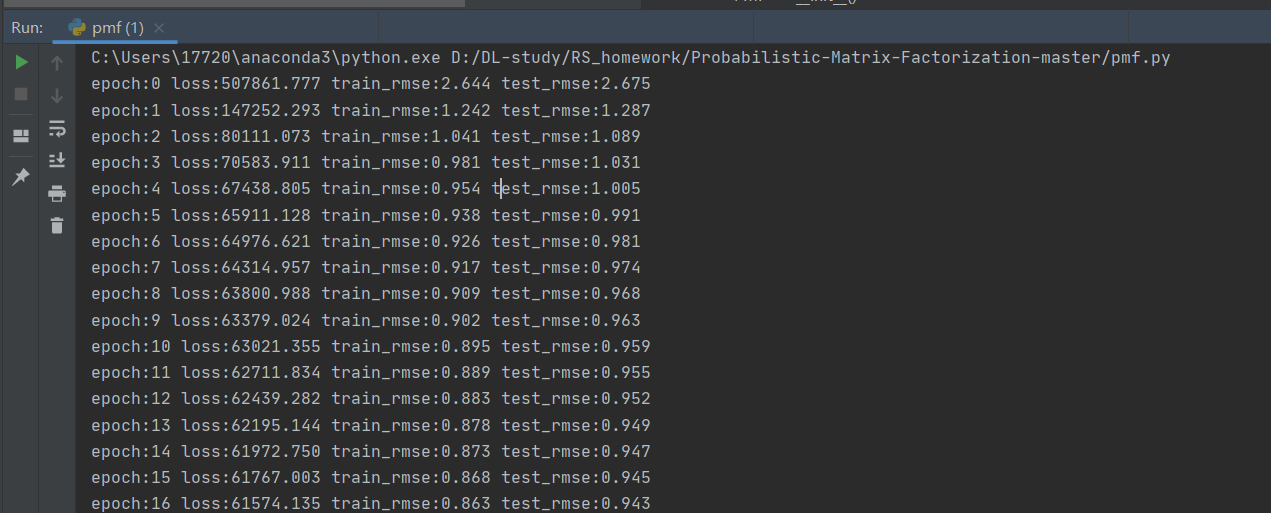
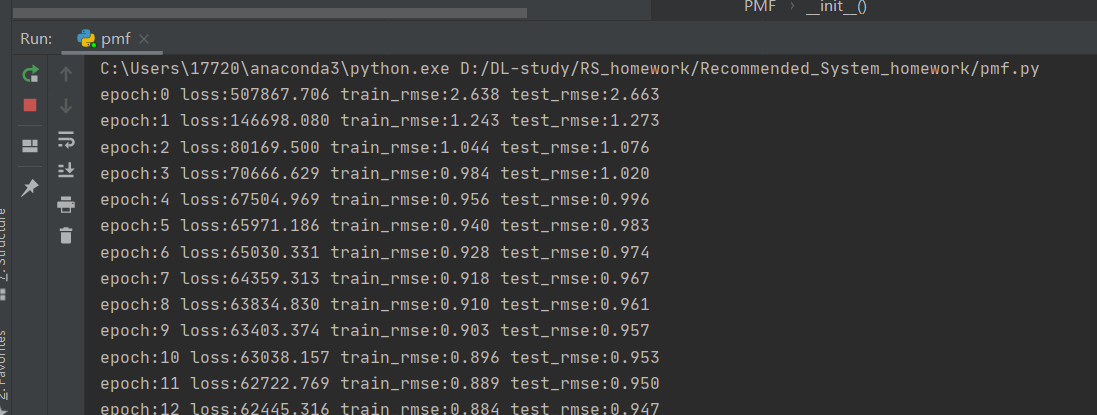
添加运行图片

diff --git a/pmf.py b/pmf.py
@@ -1,7 +1,7 @@
 import numpy as np
 import matplotlib.pyplot as plt
 class PMF():
-    def __init__(self, feature_vector=64, lr=0.001, lambda_reg_user=0.1, lambda_reg_item=0.1,epoch=100,user_num=0, item_num=0 ):
+    def __init__(self, feature_vector=16, lr=0.01, lambda_reg_user=0.1, lambda_reg_item=0.1,epoch=50,user_num=0, item_num=0 ):
         self.feature_vector = feature_vector
         self.lr = lr
         self.lambda_reg_user = lambda_reg_user  #  regularization
@@ -11,10 +11,10 @@ class PMF():
         self.item_num = item_num
         self.rmse_train=[]
         self.rmse_test=[]
-
+        self.U=np.random.normal(0,0.1,(num_user,self.feature_vector))
+        self.V = np.random.normal(0, 0.1, (num_item, self.feature_vector))
     def train(self,train,test):
-        U=np.random.normal(0,0.1,(num_user,self.feature_vector))
-        V = np.random.normal(0, 0.1, (num_item, self.feature_vector))
+   
 
         for iter in range(self.epoch):
             loss=0.0
@@ -22,39 +22,47 @@ class PMF():
                 user=data[0]
                 item=data[1]
                 rating=data[2]
-                predict_rating=np.dot(U[user],V[item].T)
+                predict_rating=np.dot(self.U[user],self.V[item].T)
                 error=rating-predict_rating
                 loss+=error**2
-                U[user]+=self.lr*(error*V[item]-self.lambda_reg_user*U[user])
-                V[item]+=self.lr*(error*U[user]-self.lambda_reg_item*V[item])
-                # U[user]+=self.lr*(error*V[item])
-                # V[item]+=self.lr*(error*U[user])
-                loss+=self.lambda_reg_user*np.square(U[user]).sum()+self.lambda_reg_item*np.square(V[item]).sum()
+                self.U[user]+=self.lr*(error*self.V[item]-self.lambda_reg_user*self.U[user])
+                self.V[item]+=self.lr*(error*self.U[user]-self.lambda_reg_item*self.V[item])
+                # self.U[user]+=self.lr*(error*self.V[item])
+                # self.V[item]+=self.lr*(error*self.U[user])
+                loss+=self.lambda_reg_user*np.square(self.U[user]).sum()+self.lambda_reg_item*np.square(self.V[item]).sum()
             loss=0.5*loss
-            _train_rmse=self.eval_rmse(U, V, train)
-            _test_rmse=self.eval_rmse(U, V, test)
+            _train_rmse=self.eval_rmse(train)
+            _test_rmse=self.eval_rmse( test)
             self.rmse_train.append(_train_rmse)
             self.rmse_test.append(_test_rmse)
             print('epoch:%d loss:%.3f train_rmse:%.3f test_rmse:%.3f'%(iter,loss,_train_rmse,_test_rmse))
 
-    def eval_rmse(self,U,V,test):
+    def eval_rmse(self,test):
         test_count=len(test)
         tmp_rmse=0.0
         # user = test[0][0]
         # item = test[0][1]
         # real_rating = test[0][2]
         # print(real_rating)
-        # predict_rating = np.dot(U[user], V[item].T)
+        # predict_rating = np.dot(self.U[user], self.V[item].T)
         # print(predict_rating)
         # tmp_rmse += np.square(real_rating - predict_rating)
         for te in test:
             user=te[0]
             item=te[1]
             real_rating=te[2]
-            predict_rating=np.dot(U[user],V[item].T)
+            predict_rating=np.dot(self.U[user],self.V[item].T)
             tmp_rmse+=np.square(real_rating-predict_rating)
         rmse=np.sqrt(tmp_rmse/test_count)
         return rmse
+    def predict(self,test):
+        print("user   item    real_rating   predict_rating")
+        for te in test[0:10000:100]:
+            user=te[0]
+            item=te[1]
+            real_rating=te[2]
+            predict_rating=np.dot(self.U[user],self.V[item].T)
+            print("%-10s%-10s%-10s%-10s"%(user,item,real_rating,predict_rating) )
 
 def read_data(path,ratio):
     user_set={}
@@ -79,8 +87,8 @@ def read_data(path,ratio):
     test=data[int(len(data)*ratio):]
     return u_idx,i_idx,train,test
 def plot(pmf):
-    plt.plot(range(pmf.epoch), pmf.rmse_train, marker='o', label='training')
-    plt.plot(range(pmf.epoch), pmf.rmse_test, marker='v', label='test')
+    plt.plot(range(pmf.epoch), pmf.rmse_train,  label='training',color='r')
+    plt.plot(range(pmf.epoch), pmf.rmse_test,  label='test',color='g')
     plt.title('movieslen')
     plt.xlabel('Epochs')
     plt.ylabel('RMSE')
@@ -91,4 +99,5 @@ if __name__=='__main__':
     num_user,num_item,train,test=read_data('data/ml-100k/u.data',0.8)
     pmf=PMF(user_num=num_user,item_num=num_item)
     pmf.train(train,test)
+    pmf.predict(test)
     plot(pmf)
